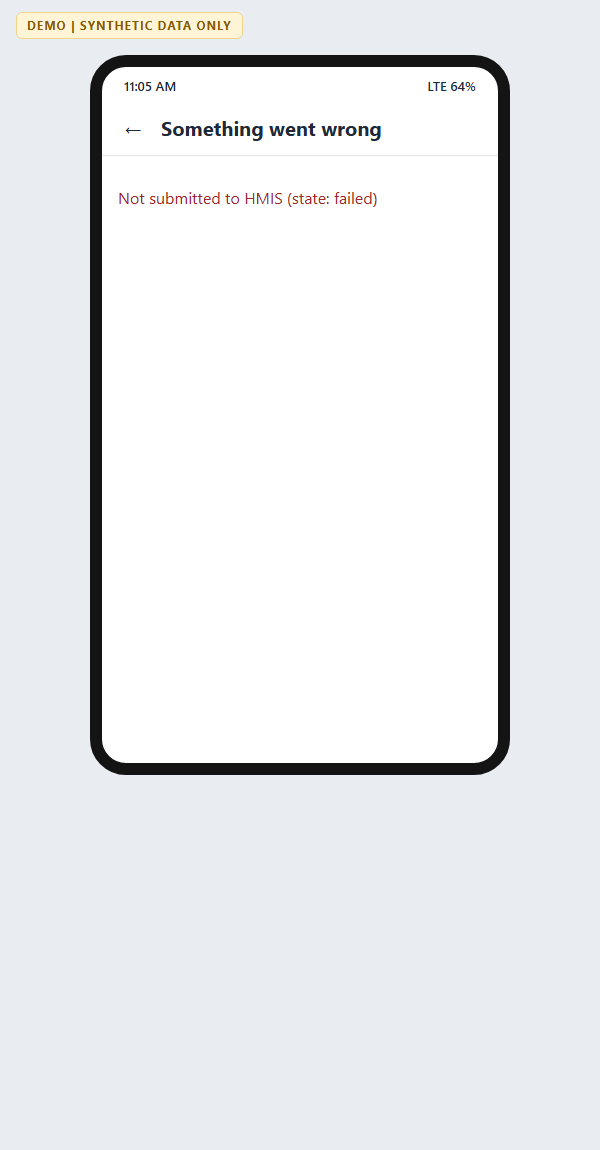
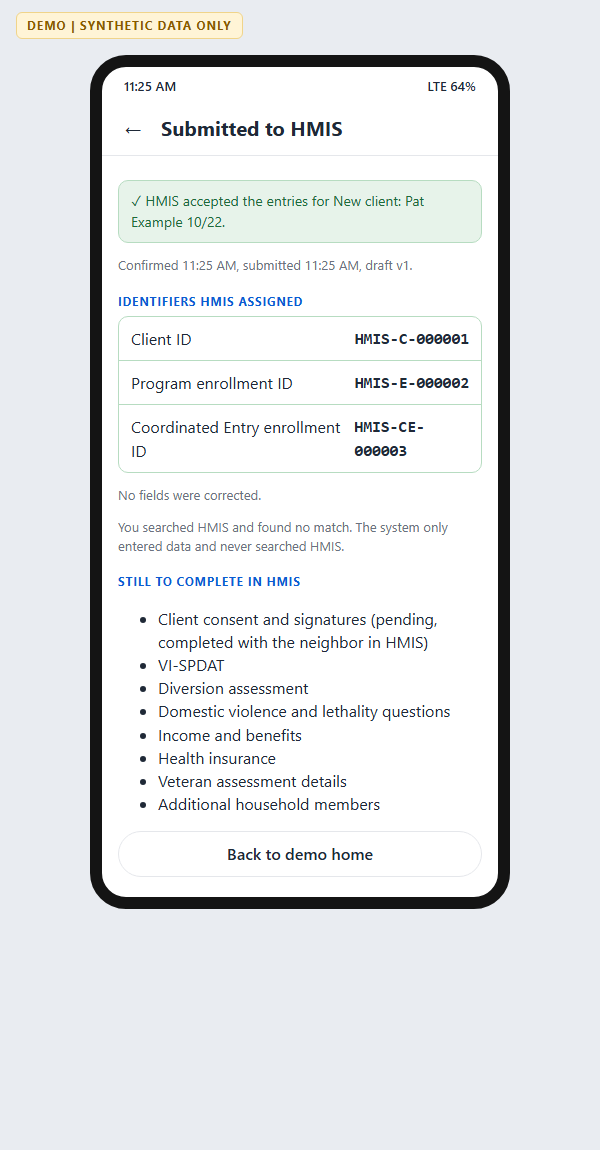
Regenerate screenshots in one command with fresh servers
scripts/take_screenshots.py starts a fresh mock HMIS and app, drives both
scenarios and a forced entry failure, captures all phone and staff screens,
and stops the servers. The earlier receipts showed a failed entry because a
mock HMIS left running from a previous capture still held the same synthetic
clients and rejected them as possible duplicates.

diff --git a/scripts/take_screenshots.py b/scripts/take_screenshots.py
@@ -1,0 +1,187 @@
+"""Regenerate docs/screenshots in one command: python scripts/take_screenshots.py
+
+Starts a fresh mock HMIS and a fresh intake app (in-memory store, rule-based stub parser),
+drives Scenario A and Scenario B through the phone screens' routes, takes a screenshot of
+every phone and staff screen with headless Edge or Chrome, then stops both servers.
+Fresh servers matter: a mock HMIS left running from an earlier run still holds the same
+synthetic clients and rejects them as possible duplicates.
+
+Synthetic data only. No key is needed or read. Server logs go to a temporary folder.
+"""
+
+from __future__ import annotations
+
+import argparse
+import os
+import shutil
+import socket
+import subprocess
+import sys
+import tempfile
+import time
+from pathlib import Path
+from urllib.parse import urlparse
+
+import httpx
+
+ROOT = Path(__file__).resolve().parent.parent
+sys.path.insert(0, str(ROOT))
+
+from app.config_loader import load_config  # noqa: E402
+
+BROWSERS = [
+    r"C:\Program Files (x86)\Microsoft\Edge\Application\msedge.exe",
+    r"C:\Program Files\Microsoft\Edge\Application\msedge.exe",
+    r"C:\Program Files\Google\Chrome\Application\chrome.exe",
+    "/Applications/Google Chrome.app/Contents/MacOS/Google Chrome",
+    "/Applications/Microsoft Edge.app/Contents/MacOS/Microsoft Edge",
+]
+PHONE_WIDTH, STAFF_WIDTH = 600, 1280
+
+
+def find_browser(explicit: str | None) -> str:
+    candidates = [explicit] if explicit else [*BROWSERS, *(shutil.which(n) for n in
+                                                           ("msedge", "google-chrome", "chromium", "chrome"))]
+    for path in candidates:
+        if path and Path(path).exists():
+            return path
+    sys.exit("No Edge or Chrome found. Pass --browser with the path to one.")
+
+
+def port_in_use(port: int) -> bool:
+    with socket.socket() as s:
+        return s.connect_ex(("127.0.0.1", port)) == 0
+
+
+def wait_until_up(url: str, seconds: float = 20) -> None:
+    deadline = time.monotonic() + seconds
+    while time.monotonic() < deadline:
+        try:
+            if httpx.get(url, timeout=1).status_code < 500:
+                return
+        except httpx.HTTPError:
+            pass
+        time.sleep(0.3)
+    raise RuntimeError(f"{url} did not start; see the server logs")
+
+
+class Shooter:
+    def __init__(self, browser: str, base: str, out: Path, profile: Path) -> None:
+        self.browser, self.base, self.out, self.profile = browser, base, out, profile
+        self.taken: list[str] = []
+
+    def __call__(self, name: str, page: str, width: int, height: int) -> None:
+        target = self.out / name
+        subprocess.run([self.browser, "--headless=new", "--disable-gpu", "--hide-scrollbars",
+                        f"--user-data-dir={self.profile}", f"--window-size={width},{height}",
+                        "--virtual-time-budget=5000", f"--screenshot={target}", f"{self.base}{page}"],
+                       capture_output=True, check=False, timeout=120)
+        if not target.exists():
+            raise RuntimeError(f"the browser did not write {name}")
+        self.taken.append(name)
+        print(f"  {name}")
+
+
+def run(args: argparse.Namespace) -> None:
+    config = load_config()
+    hmis_url = config.settings.hmis_base_url
+    hmis_port = urlparse(hmis_url).port or 80
+    for port in (hmis_port, args.port):
+        if port_in_use(port):
+            sys.exit(f"Port {port} is in use. Stop whatever is running there (an earlier mock HMIS or app) and retry.")
+
+    out = Path(args.out).resolve()
+    out.mkdir(parents=True, exist_ok=True)
+    for old in out.glob("*.png"):
+        old.unlink()
+    logs = Path(tempfile.mkdtemp(prefix="intake-screens-"))
+    env = {**os.environ, "INTAKE_PARSER": "rule_stub"}
+    procs = []
+    try:
+        procs.append(subprocess.Popen([sys.executable, "-m", "mock_hmis", "--port", str(hmis_port)], cwd=ROOT, env=env,
+                                      stdout=open(logs / "mock_hmis.log", "w"), stderr=subprocess.STDOUT))
+        procs.append(subprocess.Popen([sys.executable, "-m", "app", "--port", str(args.port), "--db", ":memory:",
+                                       "--parser", "rule_stub"], cwd=ROOT, env=env,
+                                      stdout=open(logs / "app.log", "w"), stderr=subprocess.STDOUT))
+        base = f"http://127.0.0.1:{args.port}"
+        wait_until_up(f"{base}/demo/scenarios")
+        wait_until_up(f"{hmis_url}/docs")
+        shoot = Shooter(find_browser(args.browser), base, out, logs / "browser-profile")
+        drive(httpx.Client(base_url=base, timeout=30), httpx.Client(base_url=hmis_url, timeout=10), shoot)
+        print(f"{len(shoot.taken)} screenshots in {out}")
+    finally:
+        for p in procs:
+            p.terminate()
+        for p in procs:
+            try:
+                p.wait(timeout=10)
+            except subprocess.TimeoutExpired:
+                p.kill()
+        print(f"Server logs: {logs}")
+
+
+def drive(c: httpx.Client, hmis: httpx.Client, shoot: Shooter) -> None:
+    scenarios = {s["id"]: s for s in c.get("/demo/scenarios").json()}
+    worker = scenarios["A"]["sender"]
+
+    def send(subject: str, body: str) -> dict:
+        out = c.post("/mail/send", json={"sender": worker, "subject": subject, "body": body})
+        out.raise_for_status()
+        return out.json()
+
+    def newest() -> dict:
+        return c.get(f"/mail/inbox/{worker}").json()[0]
+
+    def phone(name: str, page: str, height: int) -> None:
+        shoot(name, f"/ui/{page}", PHONE_WIDTH, height)
+
+    def staff(name: str, page: str, height: int) -> None:
+        shoot(name, f"/ui/staff.html{page}", STAFF_WIDTH, height)
+
+    phone("01_home.png", "#/", 1000)
+    phone("02_compose_scenario_b.png", "#/compose/B", 1250)
+
+    # Scenario A: clean note, confirmed on the first reply
+    a = send(scenarios["A"]["subject"], scenarios["A"]["body"])["ref"]
+    review_a = newest()
+    phone("03_review_scenario_a.png", f"#/mail/{review_a['id']}", 4400)
+    staff("10_staff_parser_run_scenario_a.png", f"#/run/{a}", 1500)
+    staff("11_staff_mapped_draft_scenario_a.png", f"#/mapped/{a}", 2300)
+    staff("12_staff_staged_record_scenario_a.png", f"#/record/{a}", 1900)
+    assert send(f"Re: {review_a['subject']}", "CONFIRM")["action"] == "submitted"
+    phone("04_receipt_scenario_a.png", f"#/receipt/{a}", 1150)
+
+    # Scenario B: scripted parser error and a missing field, corrected, then confirmed
+    b = send(scenarios["B"]["subject"], scenarios["B"]["body"])["ref"]
+    review_b1 = newest()
+    phone("05_inbox.png", "#/inbox", 1000)
+    phone("06_review_scenario_b_v1_blocked.png", f"#/mail/{review_b1['id']}", 4400)
+    phone("07_reply_scenario_b.png", f"#/reply/{review_b1['id']}", 1250)
+    staff("13_staff_parser_run_scenario_b.png", f"#/run/{b}", 1600)
+    staff("14_staff_mapped_draft_scenario_b_v1.png", f"#/mapped/{b}", 2400)
+    staff("15_staff_staged_record_scenario_b_v1.png", f"#/record/{b}", 1900)
+    body = c.get(f"/mail/message/{review_b1['id']}").json()["body"]
+    quoted = "\n".join(f"> {line}" for line in body.splitlines())
+    assert send(f"Re: {review_b1['subject']}", f"{scenarios['B']['suggested_reply']}\n\n{quoted}")["action"] == "revised"
+    review_b2 = newest()
+    phone("08_review_scenario_b_v2_revised.png", f"#/mail/{review_b2['id']}", 4400)
+    assert send(f"Re: {review_b2['subject']}", "CONFIRM")["action"] == "submitted"
+    phone("09_receipt_scenario_b.png", f"#/receipt/{b}", 1150)
+    c.post("/maintenance/purge-emails").raise_for_status()  # the retention rule, so the audit shows it
+    staff("16_staff_submitted_record_and_audit_scenario_b.png", f"#/audit/{b}", 3300)
+    staff("17_staff_all_drafts.png", "#/", 700)
+
+    # The failure screen: the mock HMIS is told to fail the next client entry
+    hmis.post("/_admin/reset").raise_for_status()
+    hmis.post("/_admin/failures", json={"operation": "create_client", "mode": "service_unavailable", "times": 1}).raise_for_status()
+    f = send(scenarios["A"]["subject"], scenarios["A"]["body"])["ref"]
+    assert send(f"Re: {newest()['subject']}", "CONFIRM")["action"] == "entry_failed"
+    phone("18_entry_failed_screen.png", f"#/receipt/{f}", 1050)
+
+
+if __name__ == "__main__":
+    ap = argparse.ArgumentParser(description="Start fresh servers and retake docs/screenshots (synthetic data only)")
+    ap.add_argument("--out", default=str(ROOT / "docs" / "screenshots"))
+    ap.add_argument("--port", type=int, default=8000, help="port for the intake app (the mock HMIS port comes from config)")
+    ap.add_argument("--browser", help="path to Edge or Chrome (found automatically if omitted)")
+    run(ap.parse_args())

diff --git a/README.md b/README.md
@@ -109,11 +109,17 @@ python -m app --parser reallms       # or use REALLMS (gemma-4-31B-it); INTAKE_P
 
 Open http://127.0.0.1:8000/ui/ for the phone screens: compose a note (or start Scenario A or B), read the review email with each field's value, source quote and flags, reply CONFIRM or with changes, and see the HMIS receipt. CONFIRM is disabled while required fields are missing, and the workflow refuses it too. Every action is sent as a simulated email through the same workflow as `/inbox`. The default parser is the rule-based stub, so the screens run offline with no key; the key is never sent to the browser or written to the logs.
 
-Screenshots of every phone screen in both scenarios are in [docs/screenshots/](docs/screenshots/).
+**Staff screens** at http://127.0.0.1:8000/ui/staff.html (after mockups A2 to A4 and B8): for each draft, the parser run (the fixed instructions, the note with the SSN masked and precise locations and other people removed, the verified output with quotes and confidence, and which parser and model made it), the mapped draft, the staged record, and after entry the submitted record with the HMIS identifiers and the audit trail. If entry fails, the phone shows what failed in plain words (for example "The mock HMIS did not answer") and offers RETRY.
+
+Screenshots of every phone and staff screen are in [docs/screenshots/](docs/screenshots/). To regenerate them in one command (it starts a fresh mock HMIS and app, so ports 8765 and 8000 must be free, and needs Edge or Chrome):
+
+```bash
+python scripts/take_screenshots.py
+```
 
 Scenario B uses a **scripted demo parser** (`sample-data/scenarios/scenarios.yaml`): for that exact note it returns a deliberate error (a declined shelter bed read as the current living situation, a mistake seen in the model evaluation) and leaves veteran status missing, so the demo always shows the worker catching a mistake. Those drafts are labelled on screen as a scripted demo example, not a live model result. If you edit the note before sending, it is parsed normally.
 
-To use the API directly, send a worker email to `POST /inbox` as `{"raw": "<the whole email>"}`, read what the system sent with `GET /outbox/<worker address>`, reply with `CONFIRM` or plain-language changes by posting another email whose subject keeps the `[ENC-... vN]` tag, and look at the staged record with `GET /drafts/<id>` and its audit with `GET /drafts/<id>/audit`. `POST /maintenance/expire` moves drafts older than 48 hours to `GET /supervisor-queue`. The staff screens (parser run, mapped draft, staged record, audit) are task 5, stage 2.
+To use the API directly, send a worker email to `POST /inbox` as `{"raw": "<the whole email>"}`, read what the system sent with `GET /outbox/<worker address>`, reply with `CONFIRM` or plain-language changes by posting another email whose subject keeps the `[ENC-... vN]` tag, and look at the staged record with `GET /drafts/<id>` and its audit with `GET /drafts/<id>/audit`. `POST /maintenance/expire` moves drafts older than 48 hours to `GET /supervisor-queue`.
 
 ## Configuration
 
@@ -140,7 +146,7 @@ parser/       parser interface, rule-based stub, REALLMS parser, shared privacy 
 ui/           phone-style screens (ui/static, served at /ui)
 config/       YAML configuration
 sample-data/  synthetic emails and the expected parse for each
-scripts/      model comparison
+scripts/      model comparison, screenshot regeneration
 tests/        pytest suite
 openspec/     specs and tasks
 docs/         HMIS manual excerpts and workflow mockups (reference only)
